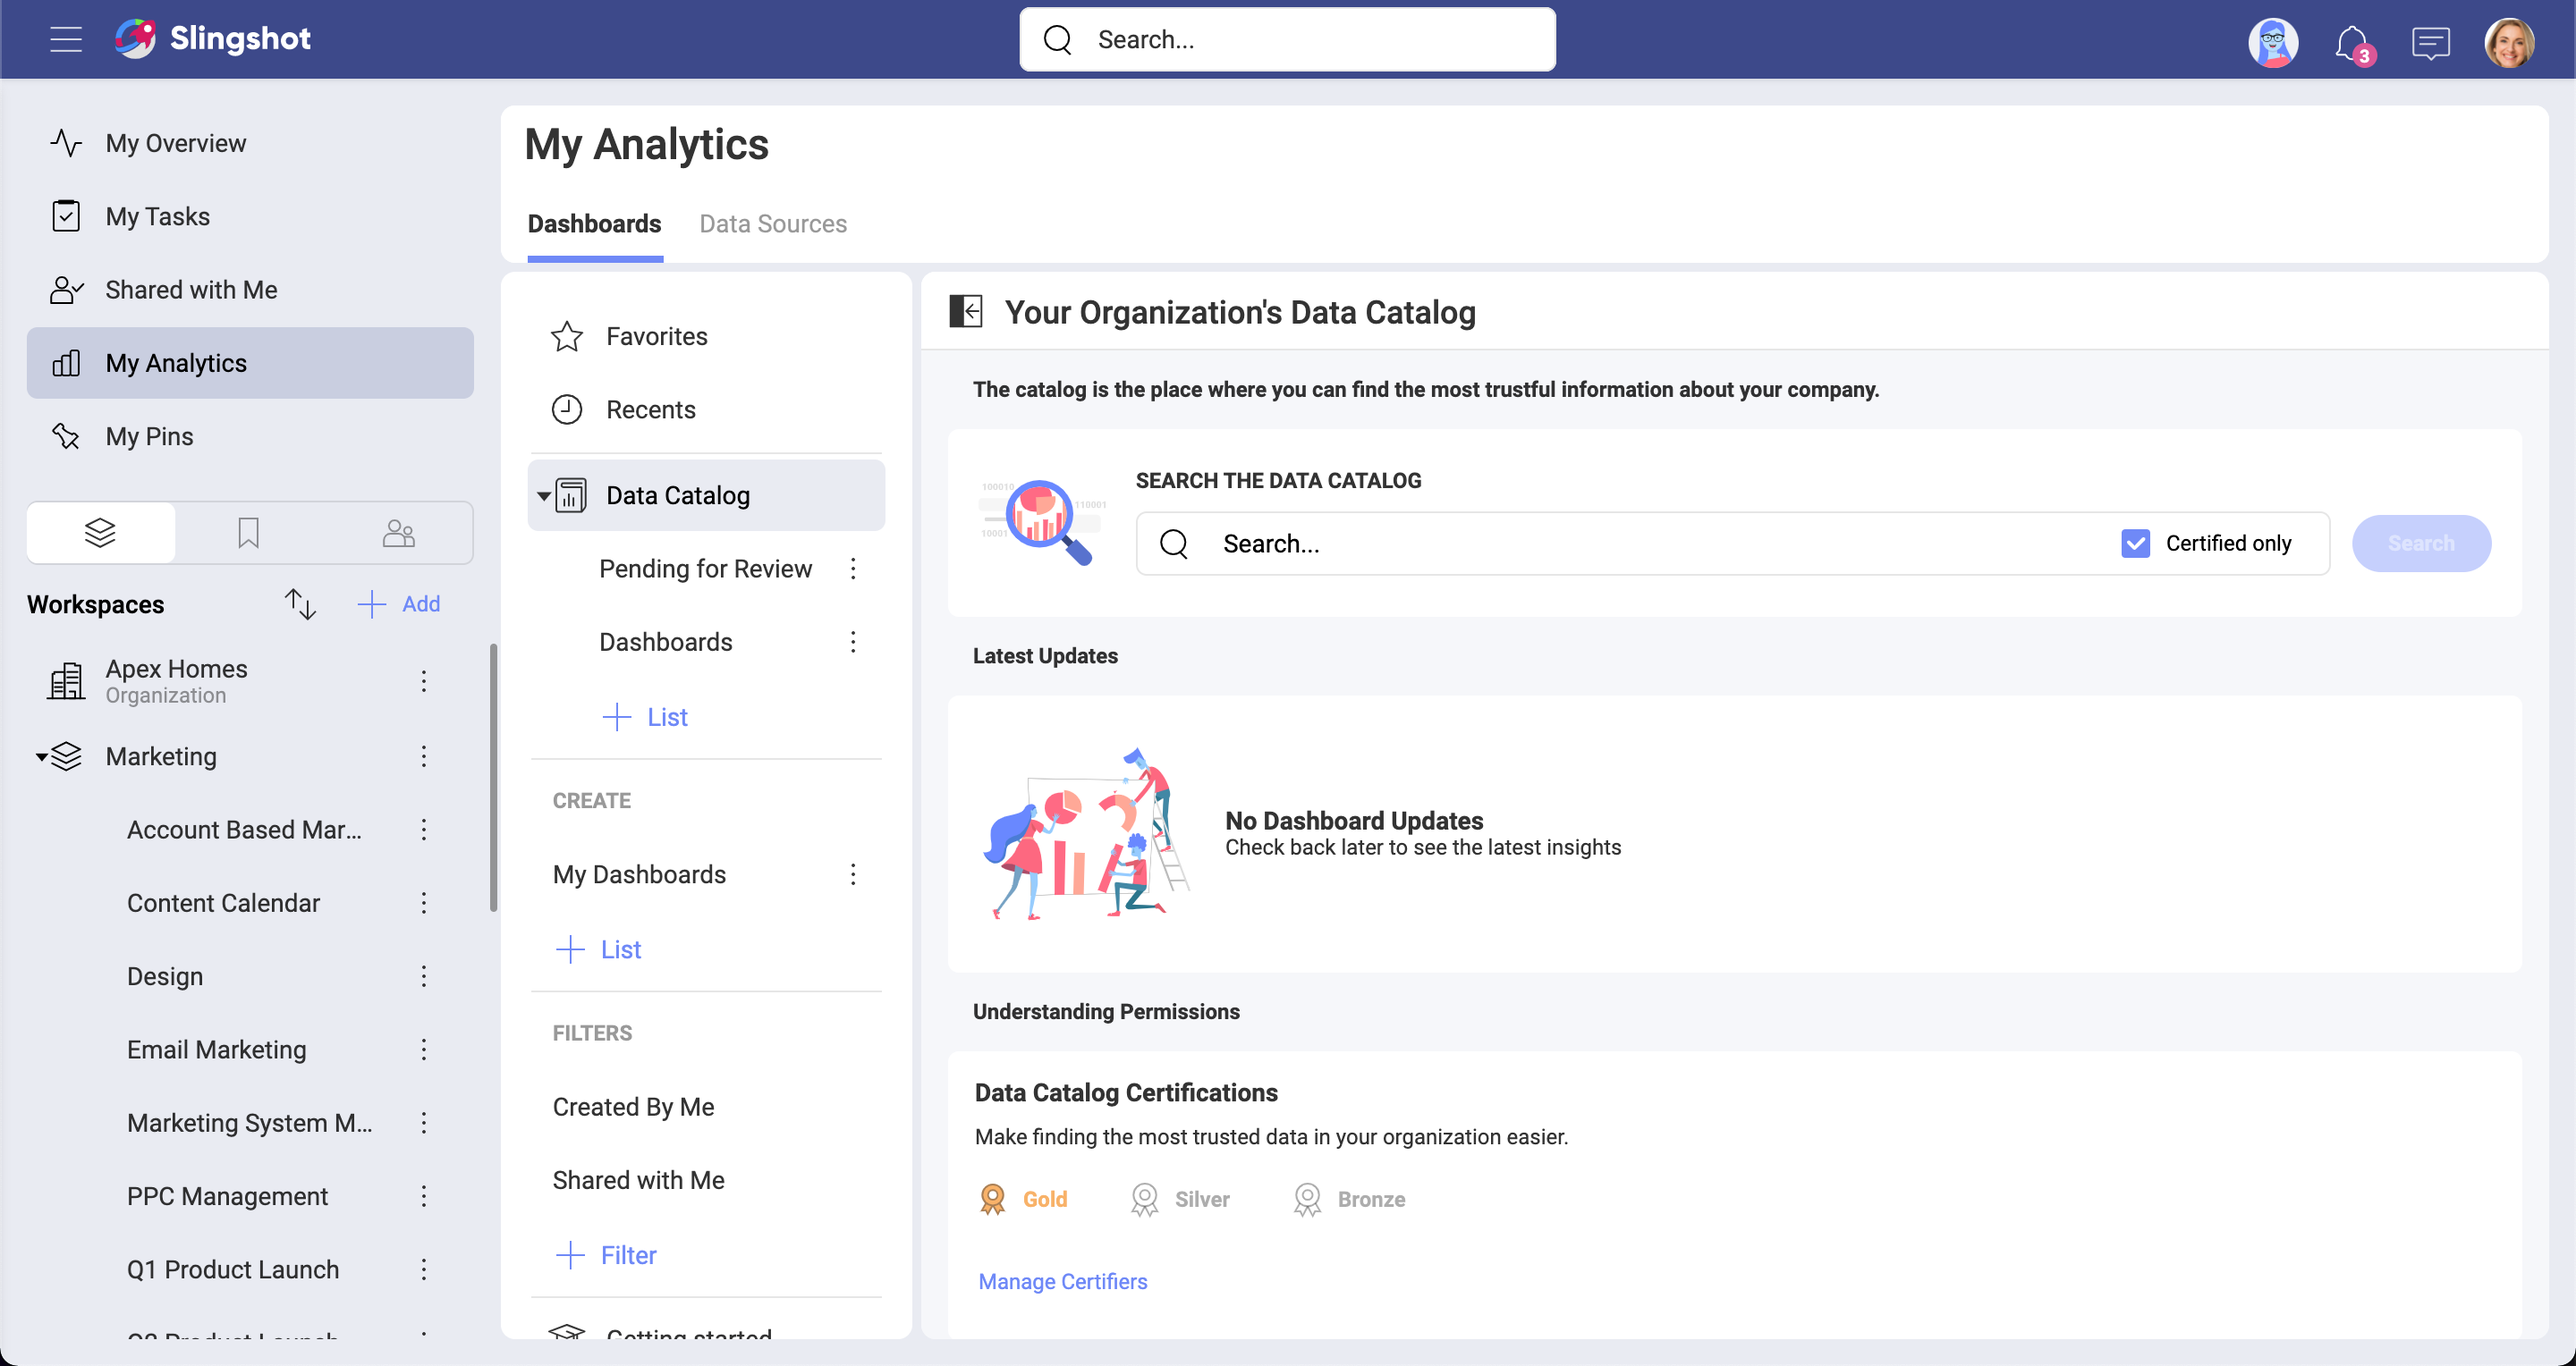
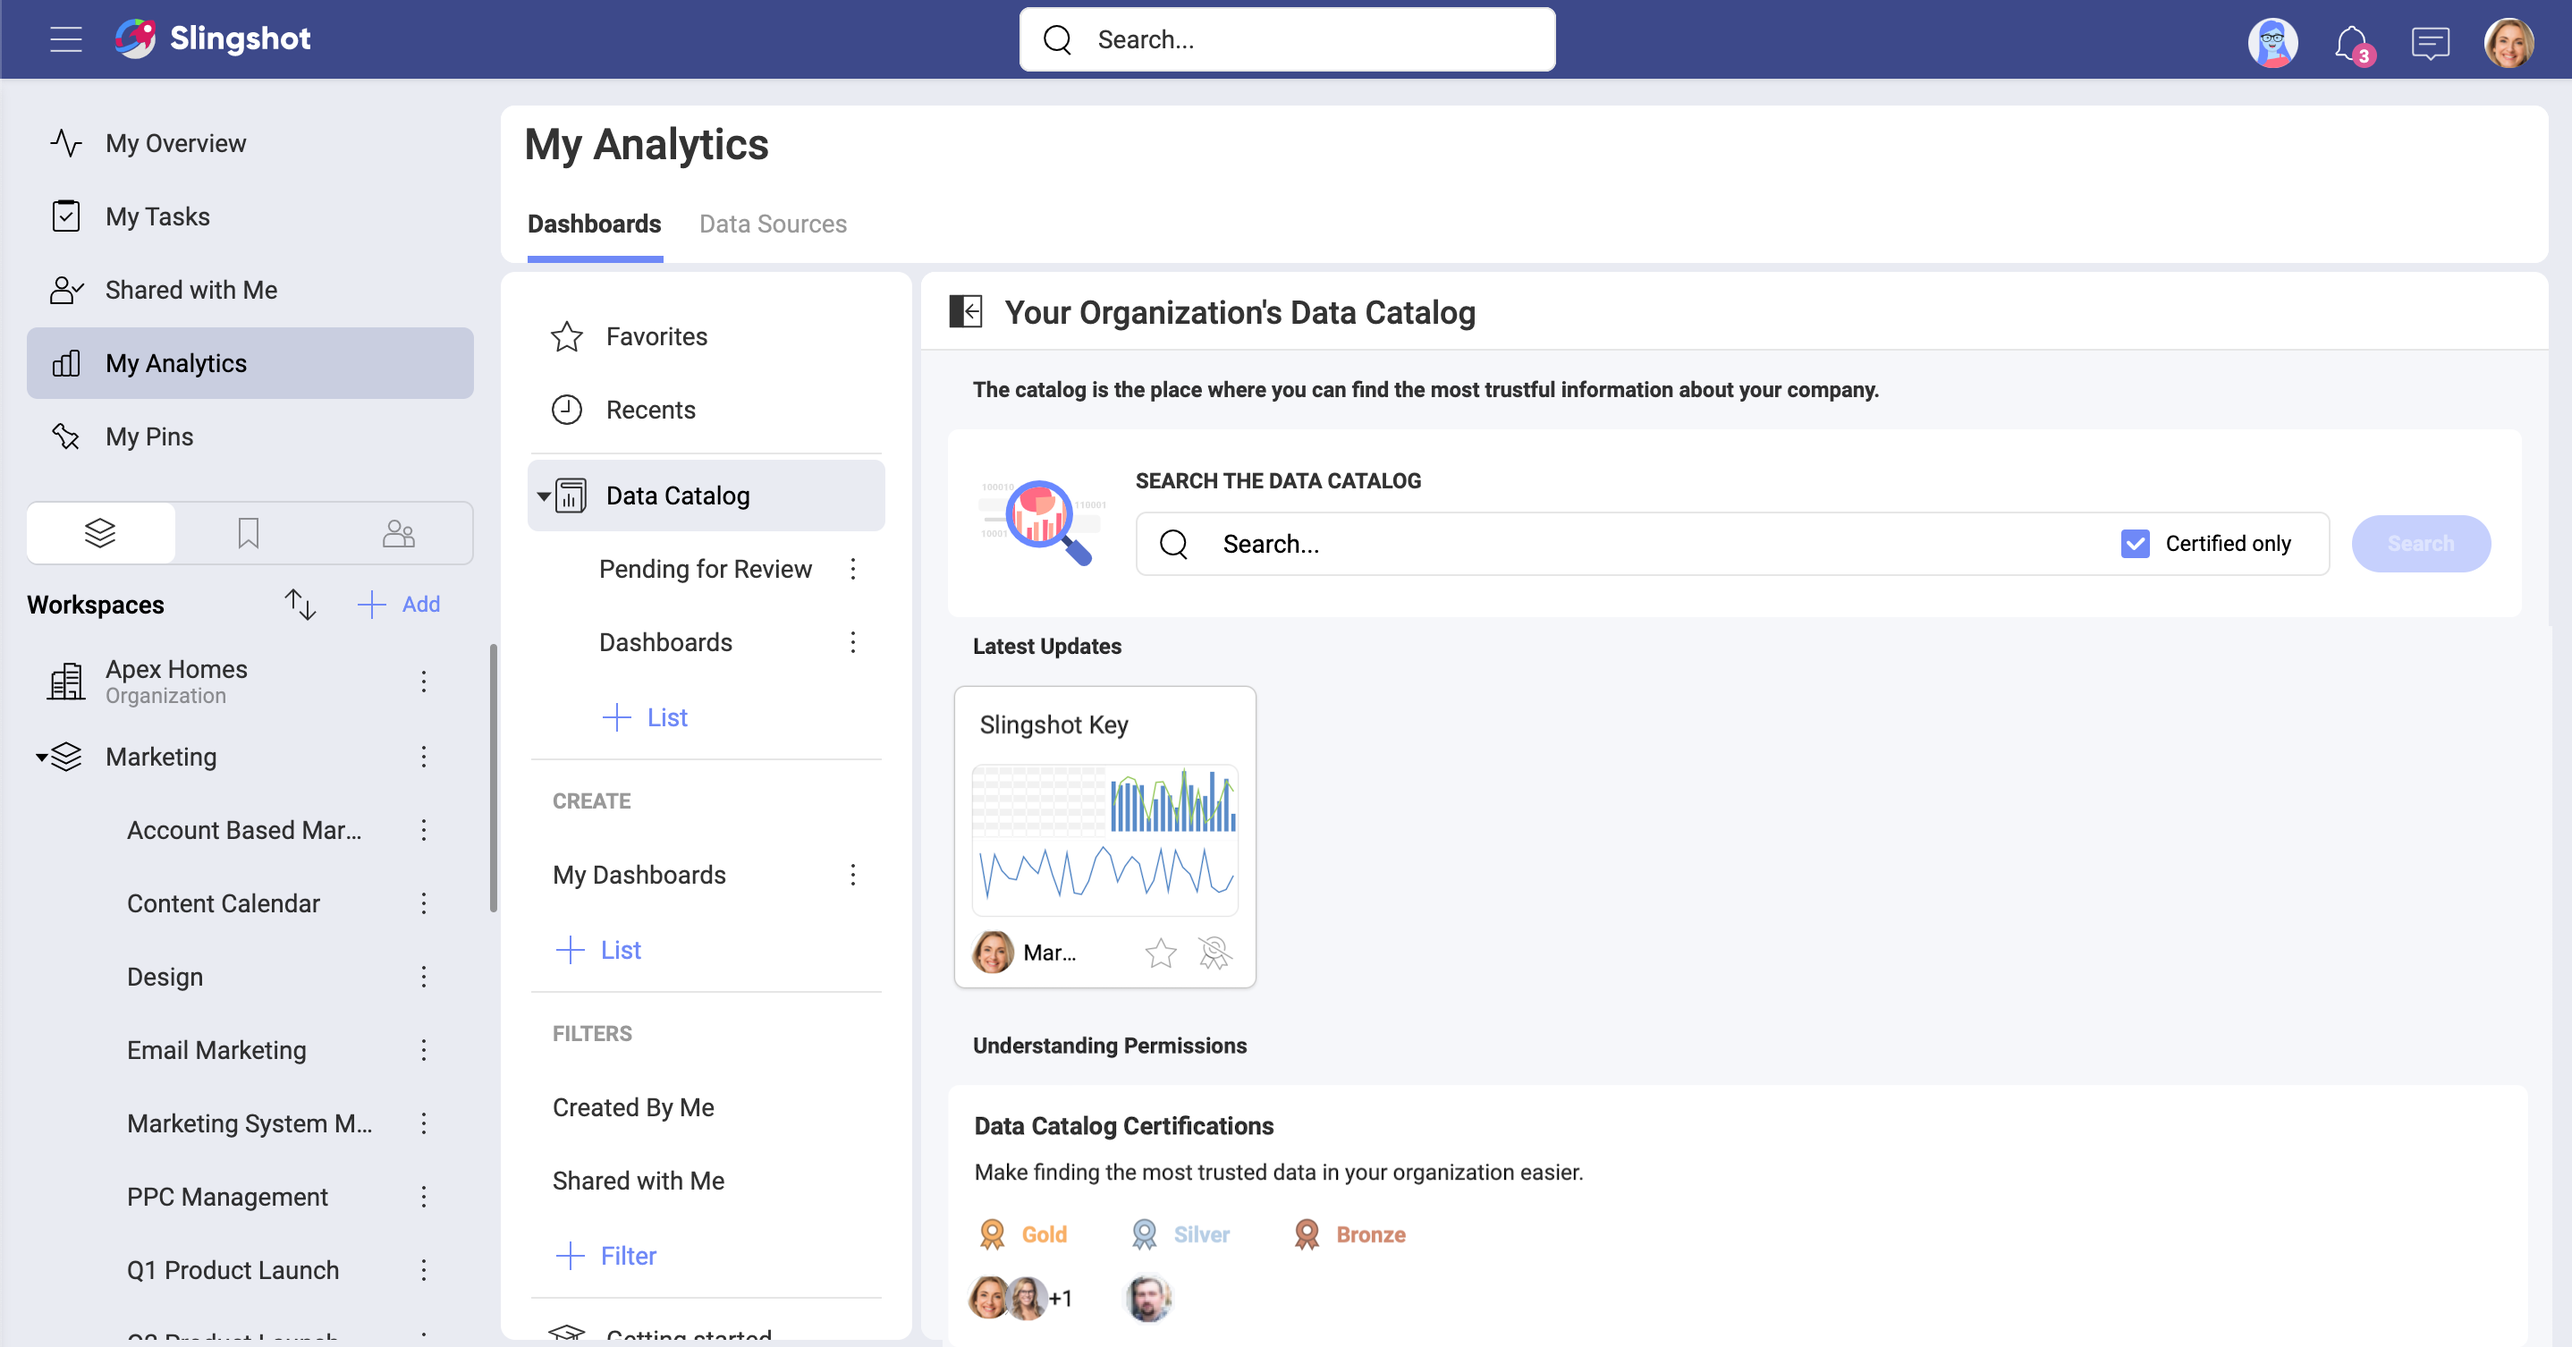
Improving Certifications, updating images and fixing a minor typo in tasks

diff --git a/reveal-images/en/datasources/certification.md b/reveal-images/en/datasources/certification.md
@@ -1,35 +1,35 @@
-# Using Data Sources Certification
+# Using Certifications
 
-If you are part of an [Organization](~/docfx/en/docs/workspaces-faq.html#organization-vs-workspace-vs-sub-workspace) in Slingshot, you may find that some of the data sources in your lists are certified. Certification in *Analytics* helps the Organization owners guide their users which data sources are reliable and contain only verified information. 
+If you are part of an [Organization](~/docfx/en/docs/workspaces-faq.html#organization-vs-workspace-vs-sub-workspace) in Slingshot, you may find that some of the data sources and dashboards in your lists are certified. Certifications help the Organization owners guide their users which data sources and dashboards are reliable and contain only verified information. 
 
-Below, you will find how to recognize certified data sources, what certification levels you can find, who can certify and how. 
+Below, you will find how to recognize certified data sources and dashboards, what certification levels you can find, who can certify and how. 
 
 ## Who is This Topic for? 
 
-Certification in *Analytics* is only available for users who have an <img src="images/organization-icon-48.png" alt="the org workspace icon" width="24px" height="24px" />  Organization in Slingshot. 
+Certification in *Analytics* is only available for users who have an <img src="images/organization-icon.png" alt="the org workspace icon" width="24px" height="24px" />  Organization in Slingshot. 
 
-If you are a user with a [personal account](~/en/help/docs/roles-permissions-faq.html#what-about-users-with-no-organization), you will not be able to use certificates for your data sources. However, if you are invited in workspaces that are part of an Organization, you will be able to see certified data sources in these workspaces' *Analytics*. 
+If you are a user with a [personal account](~/en/help/docs/roles-permissions-faq.html#what-about-users-with-no-organization), you will not be able to use certificates for your data sources and dashboards. However, if you are invited in workspaces that are part of an Organization, you will be able to see certified data sources and dashboards in these workspaces' *Analytics*. 
 
-## Finding the Certified Data Sources
+## Finding Certified Data Sources or Dashboards
 
-In the *Data Sources* of a workspace, you will find both certified and uncertified data sources. When a data source is certified, you will see a golden, silver or bronze colored badge next to it (see the screenshot below). 
+Among the data sources or dashboards of a workspace, you will find both certified and uncertified ones. When a data source or dashboard is certified, you will see a golden, silver or bronze colored badge next to it (see the screenshot below). 
 
 <img src="images/data-sources-certified.png" alt="An excel file with a bronze badge located in the certified column" class="responsive-img" />
 
-If you don't see whether a data source is certified or not, select the plus icon <img src="images/plus-icon-48.png" alt="the plus icon used in Analytics" width="24px" height="24px" /> at the right top of the data sources list. Make sure the box for the _Certified_ column is checked.  
+If you don't see whether a data source or dashboard is certified or not, select the plus icon <img src="images/plus-icon-48.png" alt="the plus icon used in Analytics" width="24px" height="24px" /> at the right top of the list. Make sure the box for the _Certified_ column is checked.  
 
-## Who Can Certify Data Sources?
+## Who Can Certify?
 
 Certification helps users find the data that is recommended and verified by their organization. That's why **certifiers** can be: 
 
-* <img src="images/organization-icon-48.png" alt="the org workspace icon" width="24px" height="24px" /> Organization owners; 
+* <img src="images/organization-icon.png" alt="the org workspace icon" width="24px" height="24px" /> Organization owners; 
 * any user who is authorized by an Organization owner. 
 
 To see who can certify data sources: 
 
 1. Open the Organization workspace settings by selecting the three dots <img src="images/overflow-icon.png" alt="the plus icon used in Analytics" width="24px" height="24px" /> next to it.
 2. Select <img src="images/settings-icon.png" alt="the plus icon used in Analytics" width="24px" height="24px" />*Organization Settings*. 
-3. Go to _Data Catalogs_. 
+3. Go to _Data Catalog_. 
 
 Here you will find the three certification levels, their names and the users that can certify.
 
@@ -47,30 +47,31 @@ Users who are not owners, can request permission to become certifiers. To do thi
 
     <img src="images/certificate-request-permission.png" alt="The Request permission button for the certificate" class="responsive-img" />
 
-An email will be sent to all Organization owners notifying them that the users asks to be authorized to certify data sources. 
+An email will be sent to all Organization owners notifying them that the users asks to be authorized to certify data sources or dashboards. 
 
-## Certifying Data Sources
+## The Certification Process
 
-Each data source can be certified individually in the workspace where it is added. To certify a data source:
+Each data source or dashboard can be certified individually in the workspace where it lives. To certify follow the steps below:
 
-1. Go to the <img src="images/workspace-icon.png" alt="the workspace icon used in Analytics" width="24px" height="24px" /> workspace where you can find the data source. 
-2. Select the *Analytics* tab. 
-3. Select <img src="images/data-source-icon.png" alt="the data sources icon used in Analytics" width="24px" height="24px" /> Data Sources on the left.
-4. Click/tap the <img src="images/not-certified-icon.png" alt="the data sources icon used in Analytics" width="24px" height="24px" /> badge icon for the data source you want to certify and choose a badge from the dropdown. 
+1. Go to the <img src="images/workspace-icon.png" alt="the workspace icon used in Analytics" width="24px" height="24px" /> workspace where you can find the data source or dashboard. 
+2. Select the *Data Sources* or *Dashboards* tab. 
+3. Click/tap the <img src="images/not-certified-icon.png" alt="the data sources icon used in Analytics" width="24px" height="24px" /> badge icon for the data source or dashboard you want to certify and choose a badge from the dropdown. 
 
-The certificates are hierarchical. This means that certifiers who can certify data sources as <img src="images/gold-badge-icon.png" alt="the gold badge icon used in Analytics" width="24px" height="24px" /> *Gold* will also see the <img src="images/silver-badge-icon.png" alt="the silver badge icon used in Analytics" width="24px" height="24px" /> *Silver* and <img src="images/bronze-badge-icon.png" alt="the bronze badge icon used in Analytics" width="24px" height="24px" /> *Bronze* badges available in the dropdown. And *Bronze* certifiers will only see the bronze badge available. 
+The certificates are hierarchical. This means that certifiers who can with <img src="images/gold-badge-icon.png" alt="the gold badge icon used in Analytics" width="24px" height="24px" /> *Gold* will also see the <img src="images/silver-badge-icon.png" alt="the silver badge icon used in Analytics" width="24px" height="24px" /> *Silver* and <img src="images/bronze-badge-icon.png" alt="the bronze badge icon used in Analytics" width="24px" height="24px" /> *Bronze* badges available in the dropdown. And *Bronze* certifiers will only see the bronze badge available. 
 
 >[!NOTE] Keep in mind that if two data source in two workspaces are named the same, the certifier has to certify them in each of the workspaces individually. The certificate will not be transferred automatically as the certifier has to first make sure they contain the same information.
 
-## Moving and Copying Data Sources
+## Moving and Copying Certified items
 
-When you move a certified data source from one workspace to another, the certificate will be kept in the destination workspace. 
+When you move a certified data source or dashboard from one workspace to another, the certificate will be kept in the destination workspace. 
 
-When you copy a certified data source from one workspace to another, the certificate will be lost. This gives you the opportunity to modify the data source in the destination workspace. You can have it certified later if it still meets the certification criteria in your Organization.
+When you copy a certified data source or dashboard from one workspace to another, the certificate will be lost. This gives you the opportunity to modify the data source or dashboard in the destination workspace. You can have it certified later if it still meets the certification criteria in your Organization.
 
 ## Defining the Certification Criteria
 
-As the certification in *Analytics* is flexible, it is up to you to define your own certification criteria. You can decide what the Gold, Silver and Bronze badge mean to your Organization and data sources. Just keep in mind they are hierarchical as their names suggest and the hierarchy goes this way: *Gold* > *Silver* > *Bronze*. You can also set new names. 
+As the certification in *Analytics* is flexible, it is up to you to define your own certification criteria. You can decide what the Gold, Silver and Bronze badge mean to your Organization and even set new names for them. 
+
+Keep in mind they are hierarchical as their names suggest and the hierarchy goes this way: *Gold* > *Silver* > *Bronze*.
 
 >[!Tip] **Pro Tip!** Don't forget to write down the guidelines and distribute them among the users in your Organization! Pin the Guidelines document to your Organization *Content* for more visibility. 
 

diff --git a/docfx/en/docs/tasks.md b/docfx/en/docs/tasks.md
@@ -2,7 +2,7 @@
 
 When it comes to running a successful project – task management is at the heart of that. You need everything organized in one place to manage tasks through out the full lifecycle of the project. Setting deadlines, dependencies, and priorities are all essential to ensure projects stay on track and get completed on time.   
 
-There is a task tab available within your workspaces and projects, listing all the tasks assigend to everyone in those workspaces and projects. You can view your own tasks assigned to ou with in the My Tasks section.
+There is a task tab available within your workspaces and projects, listing all the tasks assigned to everyone in those workspaces and projects. You can view your own tasks assigned to you with in the My Tasks section.
 
 Learn more about all Slingshots project management features in our short tutorial video:  
 
